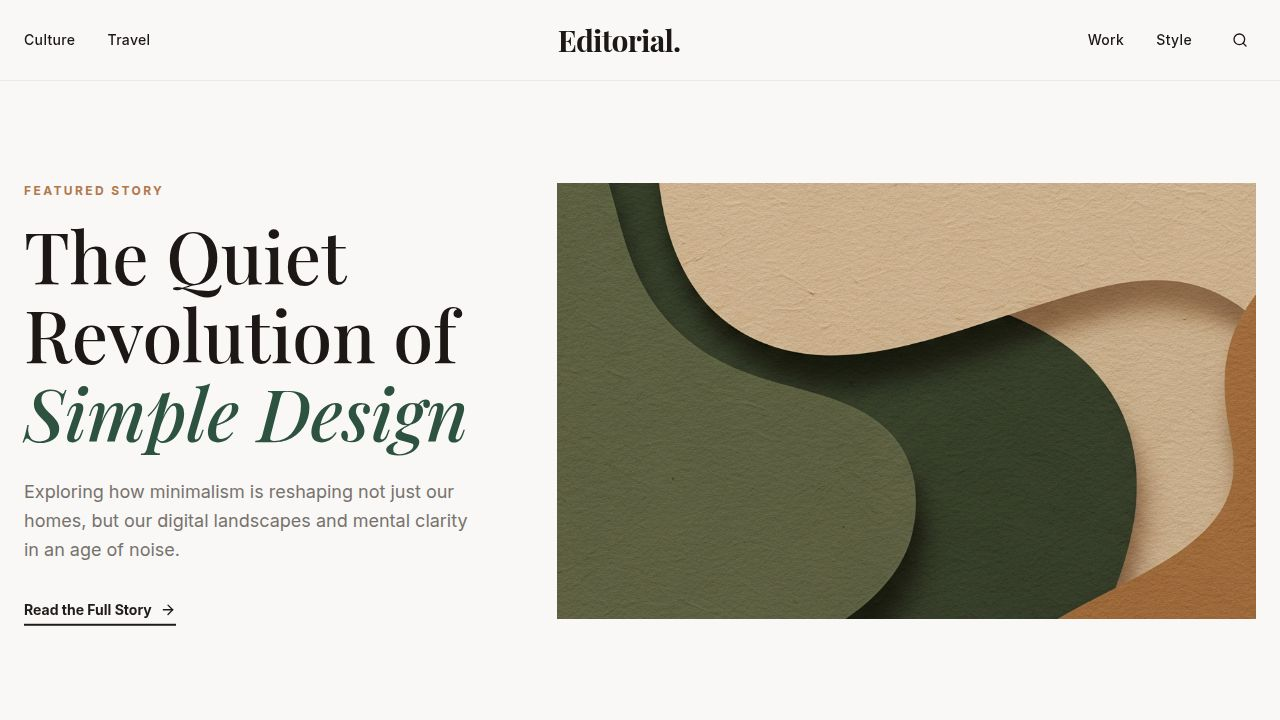
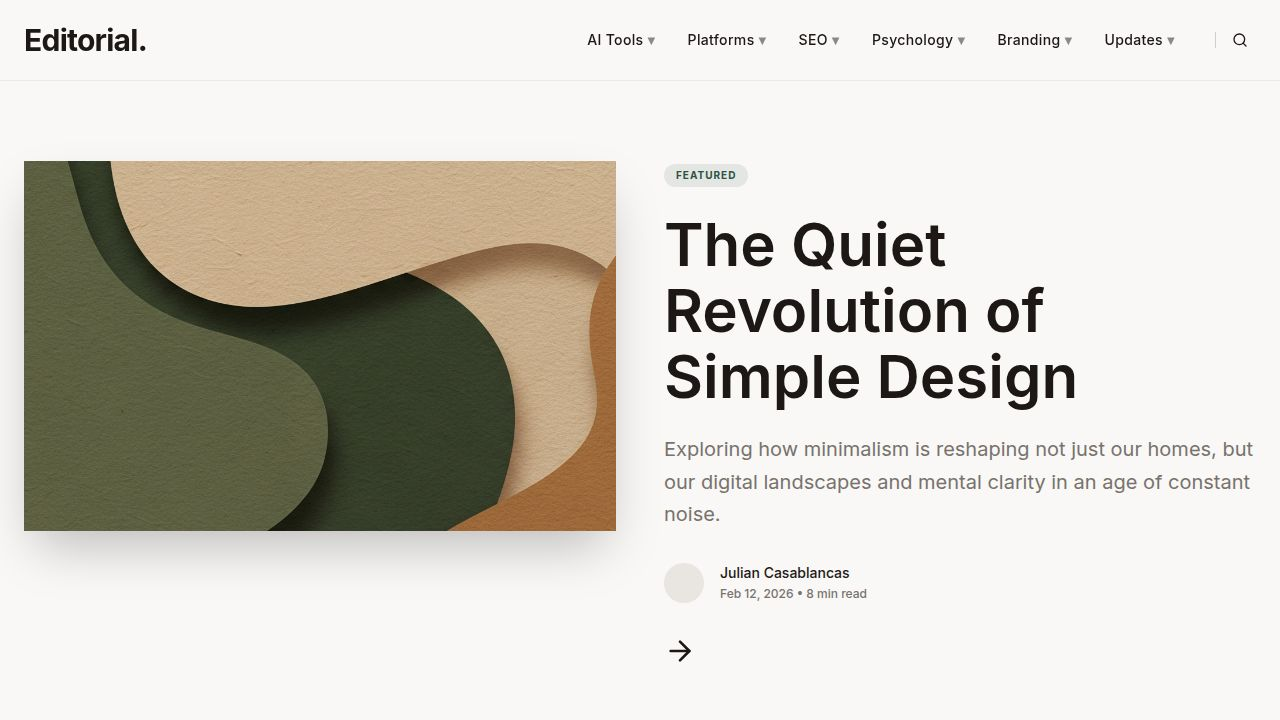
Update website navigation, featured section, and font styles
Refactors the website's navigation menu to include custom submenus and updates the featured section layout. Also changes the site-wide font to a sans-serif typeface.

Replit-Commit-Author: Agent
Replit-Commit-Session-Id: 1e77e9a3-cc41-4917-8339-a06a034f724f
Replit-Commit-Checkpoint-Type: full_checkpoint
Replit-Commit-Event-Id: f01df942-dd4b-44d7-b255-3d5c31f71883
Replit-Commit-Screenshot-Url: https://storage.googleapis.com/screenshot-production-us-central1/e851eb40-2021-4a61-9a52-674fbeedc04d/1e77e9a3-cc41-4917-8339-a06a034f724f/fiw2fFQ
Replit-Helium-Checkpoint-Created: true

diff --git a/client/src/pages/home.tsx b/client/src/pages/home.tsx
@@ -8,10 +8,12 @@ import blogTech from "../assets/blog-tech.png";
 import blogTravel from "../assets/blog-travel.png";
 
 const NAV_LINKS = [
-  { label: "Culture", href: "#" },
-  { label: "Travel", href: "#" },
-  { label: "Work", href: "#" },
-  { label: "Style", href: "#" },
+  { label: "AI Tools", href: "#", submenu: ["SEO", "AI", "Automation", "Generative Tools"] },
+  { label: "Platforms", href: "#", submenu: ["Facebook", "Instagram", "Shopping", "Google Ads"] },
+  { label: "SEO", href: "#", submenu: ["AEO", "AIO", "Content Marketing", "GEO"] },
+  { label: "Psychology", href: "#", submenu: ["B2B", "B2C", "Ecommerce"] },
+  { label: "Branding", href: "#", submenu: ["B2B", "B2C"] },
+  { label: "Updates", href: "#", submenu: ["Algorithms", "Content", "Media"] },
 ];
 
 const BLOG_POSTS = [
@@ -103,9 +105,11 @@ export default function Home() {
                   {/* Submenu */}
                   <div className="absolute top-full right-0 pt-4 opacity-0 invisible group-hover:opacity-100 group-hover:visible transition-all duration-300 translate-y-2 group-hover:translate-y-0">
                     <div className="bg-white border border-border shadow-xl py-4 w-48 rounded-sm">
-                      <a href="#" className="block px-6 py-2 text-xs font-medium hover:bg-secondary hover:text-accent transition-colors">Latest Stories</a>
-                      <a href="#" className="block px-6 py-2 text-xs font-medium hover:bg-secondary hover:text-accent transition-colors">Editor's Choice</a>
-                      <a href="#" className="block px-6 py-2 text-xs font-medium hover:bg-secondary hover:text-accent transition-colors">Archives</a>
+                      {link.submenu?.map((item) => (
+                        <a key={item} href="#" className="block px-6 py-2 text-xs font-medium hover:bg-secondary hover:text-accent transition-colors">
+                          {item}
+                        </a>
+                      ))}
                     </div>
                   </div>
                 </div>
@@ -128,7 +132,23 @@ export default function Home() {
         <section className="pt-12 pb-16 md:pt-20 md:pb-24 border-b border-border/40">
           <div className="container mx-auto px-6">
             <div className="flex flex-col md:flex-row gap-12 items-start">
-              <div className="flex-1 order-2 md:order-1">
+              <div className="flex-1 w-full">
+                <motion.div 
+                  initial={{ opacity: 0, scale: 0.98 }}
+                  animate={{ opacity: 1, scale: 1 }}
+                  transition={{ duration: 0.8, ease: "easeOut" }}
+                  className="aspect-[16/10] overflow-hidden rounded-sm shadow-2xl relative group"
+                >
+                  <img 
+                    src={heroAbstract} 
+                    alt="Featured Story" 
+                    className="w-full h-full object-cover transform group-hover:scale-105 transition-transform duration-1000" 
+                  />
+                  <div className="absolute inset-0 bg-gradient-to-t from-black/20 to-transparent opacity-0 group-hover:opacity-100 transition-opacity duration-500"></div>
+                </motion.div>
+              </div>
+
+              <div className="flex-1">
                 <motion.div
                   initial={{ opacity: 0, y: 20 }}
                   animate={{ opacity: 1, y: 0 }}
@@ -152,26 +172,9 @@ export default function Home() {
                       <span className="text-muted-foreground text-xs">Feb 12, 2026 • 8 min read</span>
                     </div>
                   </div>
-                  <a href="#" className="inline-flex items-center justify-center px-8 py-4 bg-foreground text-background text-sm font-bold hover:bg-primary hover:text-white transition-all rounded-sm group" data-testid="hero-cta">
-                    Read Story
-                    <ArrowRight className="ml-2 w-4 h-4 transform group-hover:translate-x-1 transition-transform" />
+                  <a href="#" className="inline-flex items-center text-foreground hover:text-accent transition-all group" data-testid="hero-cta">
+                    <ArrowRight className="w-8 h-8 transform group-hover:translate-x-2 transition-transform" />
                   </a>
-                </motion.div>
-              </div>
-              
-              <div className="flex-1 order-1 md:order-2 w-full">
-                <motion.div 
-                  initial={{ opacity: 0, scale: 0.98 }}
-                  animate={{ opacity: 1, scale: 1 }}
-                  transition={{ duration: 0.8, ease: "easeOut" }}
-                  className="aspect-[16/10] overflow-hidden rounded-sm shadow-2xl relative group"
-                >
-                  <img 
-                    src={heroAbstract} 
-                    alt="Featured Story" 
-                    className="w-full h-full object-cover transform group-hover:scale-105 transition-transform duration-1000" 
-                  />
-                  <div className="absolute inset-0 bg-gradient-to-t from-black/20 to-transparent opacity-0 group-hover:opacity-100 transition-opacity duration-500"></div>
                 </motion.div>
               </div>
             </div>
@@ -329,7 +332,14 @@ export default function Home() {
               <h4 className="font-bold text-sm uppercase tracking-widest mb-6">Explore</h4>
               <ul className="space-y-4 text-sm text-muted-foreground">
                 {NAV_LINKS.map(link => (
-                  <li key={link.label}><a href={link.href} className="hover:text-foreground transition-colors">{link.label}</a></li>
+                  <li key={link.label} className="group">
+                    <a href={link.href} className="hover:text-foreground transition-colors font-medium">{link.label}</a>
+                    <div className="ml-4 mt-2 space-y-2 border-l border-border pl-4">
+                      {link.submenu?.map(sub => (
+                        <a key={sub} href="#" className="block text-[10px] hover:text-accent transition-colors">{sub}</a>
+                      ))}
+                    </div>
+                  </li>
                 ))}
               </ul>
             </div>

diff --git a/client/src/index.css b/client/src/index.css
@@ -40,7 +40,7 @@
   --color-sidebar-ring: hsl(var(--sidebar-ring));
 
   --font-sans: 'Inter', sans-serif;
-  --font-serif: 'Playfair Display', serif;
+  --font-serif: 'Inter', sans-serif;
   
   --radius: 0.25rem;
 }
